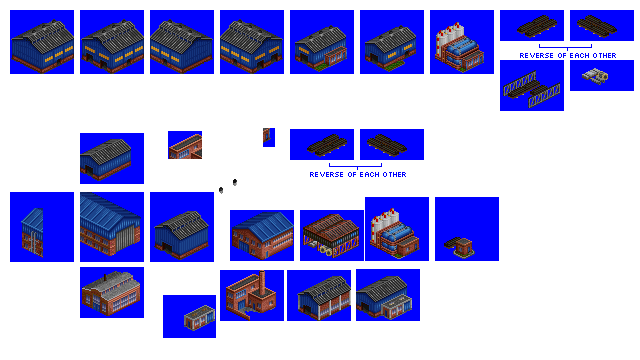
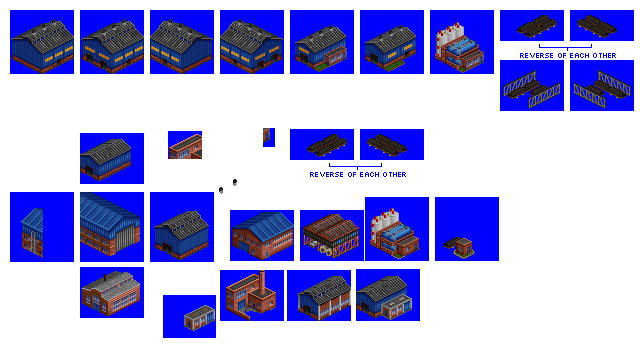
Change: improved Wire and Section Mill layouts

Changed region(s): [[0.875, 0.1833, 1.0, 0.3056]]

diff --git a/src/industries/wire_and_section_mill.py b/src/industries/wire_and_section_mill.py
@@ -73,6 +73,9 @@ spriteset_9 = industry.add_spriteset(
 spriteset_10 = industry.add_spriteset(
     sprites=[(500, 60, 64, 51, -31, -21)],
 )
+spriteset_11 = industry.add_spriteset(
+    sprites=[(570, 60, 64, 51, -31, -21)],
+)
 sprite_smoke = industry.add_smoke_sprite(
     smoke_type="white_smoke_small",
     xoffset=-5,
@@ -113,7 +116,7 @@ industry.add_spritelayout(
     ground_sprite=spriteset_ground,
     ground_overlay=spriteset_ground_overlay,
     building_sprites=[spriteset_5],
-    fences=[],
+    fences=["nw", "ne", "sw", "se"],
 )
 industry.add_spritelayout(
     id="wire_and_section_mill_spritelayout_small_shed_2",
@@ -135,20 +138,27 @@ industry.add_spritelayout(
     ground_sprite=spriteset_ground,
     ground_overlay=spriteset_ground_overlay,
     building_sprites=[spriteset_8],
-    fences=["nw", "ne", "se"],
+    fences=["nw", "ne", "sw", "se"],
 )
 industry.add_spritelayout(
     id="wire_and_section_mill_spritelayout_wire_2",
     ground_sprite=spriteset_ground,
     ground_overlay=spriteset_ground_overlay,
     building_sprites=[spriteset_9],
-    fences=["nw", "ne", "se", "sw"],
+    fences=["nw", "ne", "sw", "se"],
 )
 industry.add_spritelayout(
-    id="wire_and_section_mill_spritelayout_gantry",
+    id="wire_and_section_mill_spritelayout_gantry_1",
     ground_sprite=spriteset_ground,
     ground_overlay=spriteset_ground_overlay,
     building_sprites=[spriteset_10],
+    fences=["nw", "ne", "se", "sw"],
+)
+industry.add_spritelayout(
+    id="wire_and_section_mill_spritelayout_gantry_2",
+    ground_sprite=spriteset_ground,
+    ground_overlay=spriteset_ground_overlay,
+    building_sprites=[spriteset_11],
     fences=["nw", "ne", "se", "sw"],
 )
 
@@ -157,10 +167,12 @@ industry.add_spritelayout(
 industry.add_industry_outpost_layout(
     id="wire_and_section_mill_industry_outpost_layout_se_nw",
     layout=[
-        (0, 0, "wire_and_section_mill_tile_1", "wire_and_section_mill_spritelayout_shed_se_nw_1"),
+        (0, 0, "wire_and_section_mill_tile_1", "wire_and_section_mill_spritelayout_shed_se_nw_2"),
         (0, 1, "wire_and_section_mill_tile_1", "wire_and_section_mill_spritelayout_shed_se_nw_2"),
-        (1, 0, "wire_and_section_mill_tile_1", "wire_and_section_mill_spritelayout_small_shed_2"), # shed 2 used as it has smoke
-        (1, 1, "wire_and_section_mill_tile_1", "wire_and_section_mill_spritelayout_tanks"),
+        (0, 2, "wire_and_section_mill_tile_1", "wire_and_section_mill_spritelayout_tanks"),
+        (1, 0, "wire_and_section_mill_tile_1", "wire_and_section_mill_spritelayout_shed_se_nw_2"),
+        (1, 1, "wire_and_section_mill_tile_1", "wire_and_section_mill_spritelayout_gantry_2"),
+        (1, 2, "wire_and_section_mill_tile_1", "wire_and_section_mill_spritelayout_small_shed_2"), # shed 2 used as it has smoke
     ],
 )
 industry.add_industry_outpost_layout(
@@ -170,6 +182,8 @@ industry.add_industry_outpost_layout(
         (0, 1, "wire_and_section_mill_tile_1", "wire_and_section_mill_spritelayout_tanks"),
         (1, 0, "wire_and_section_mill_tile_1", "wire_and_section_mill_spritelayout_shed_sw_ne_2"),
         (1, 1, "wire_and_section_mill_tile_1", "wire_and_section_mill_spritelayout_small_shed_2"), # shed 2 used as it has smoke
+        (2, 0, "wire_and_section_mill_tile_1", "wire_and_section_mill_spritelayout_small_shed_1"),
+        (2, 1, "wire_and_section_mill_tile_1", "wire_and_section_mill_spritelayout_gantry_1"),
     ],
 )
 # core layouts are roughly 6x4 or 5x5
@@ -198,12 +212,6 @@ industry.add_industry_layout(
             "wire_and_section_mill_spritelayout_shed_sw_ne_2",
         ),
         (
-            0,
-            3,
-            "wire_and_section_mill_tile_1",
-            "wire_and_section_mill_spritelayout_shed_sw_ne_2",
-        ),
-        (
             1,
             0,
             "wire_and_section_mill_tile_1",
@@ -222,12 +230,6 @@ industry.add_industry_layout(
             "wire_and_section_mill_spritelayout_shed_sw_ne_2",
         ),
         (
-            1,
-            3,
-            "wire_and_section_mill_tile_1",
-            "wire_and_section_mill_spritelayout_shed_sw_ne_2",
-        ),
-        (
             2,
             0,
             "wire_and_section_mill_tile_1",
@@ -239,13 +241,7 @@ industry.add_industry_layout(
             "wire_and_section_mill_tile_1",
             "wire_and_section_mill_spritelayout_shed_sw_ne_1",
         ),
-        (2, 2, "wire_and_section_mill_tile_1", "wire_and_section_mill_spritelayout_wire_2"),
-        (
-            2,
-            3,
-            "wire_and_section_mill_tile_1",
-            "wire_and_section_mill_spritelayout_gantry",
-        ),
+        (2, 2, "wire_and_section_mill_tile_1", "wire_and_section_mill_spritelayout_wire_1"),
         (
             3,
             0,
@@ -260,12 +256,6 @@ industry.add_industry_layout(
         ),
         (3, 2, "wire_and_section_mill_tile_1", "wire_and_section_mill_spritelayout_wire_1"),
         (
-            3,
-            3,
-            "wire_and_section_mill_tile_1",
-            "wire_and_section_mill_spritelayout_gantry",
-        ),
-        (
             4,
             0,
             "wire_and_section_mill_tile_1",
@@ -277,8 +267,7 @@ industry.add_industry_layout(
             "wire_and_section_mill_tile_1",
             "wire_and_section_mill_spritelayout_small_shed_2",
         ),
-        (4, 2, "wire_and_section_mill_tile_1", "wire_and_section_mill_spritelayout_wire_1"),
-        (4, 3, "wire_and_section_mill_tile_1", "wire_and_section_mill_spritelayout_wire_2"),
+        (4, 2, "wire_and_section_mill_tile_1", "wire_and_section_mill_spritelayout_gantry_1"),
         (
             5,
             0,
@@ -291,8 +280,7 @@ industry.add_industry_layout(
             "wire_and_section_mill_tile_1",
             "wire_and_section_mill_spritelayout_small_shed_1",
         ),
-        (5, 2, "wire_and_section_mill_tile_1", "wire_and_section_mill_spritelayout_wire_1"),
-        (5, 3, "wire_and_section_mill_tile_1", "wire_and_section_mill_spritelayout_wire_2"),
+        (5, 2, "wire_and_section_mill_tile_1", "wire_and_section_mill_spritelayout_gantry_1"),
     ],
 )
 industry.add_industry_layout(
@@ -383,35 +371,9 @@ industry.add_industry_layout(
             "wire_and_section_mill_tile_1",
             "wire_and_section_mill_spritelayout_shed_se_nw_2",
         ),
-        (2, 2, "wire_and_section_mill_tile_1", "wire_and_section_mill_spritelayout_wire_1"),
+        (2, 2, "wire_and_section_mill_tile_1", "wire_and_section_mill_spritelayout_wire_2"),
         (2, 3, "wire_and_section_mill_tile_1", "wire_and_section_mill_spritelayout_wire_2"),
-        (2, 4, "wire_and_section_mill_tile_1", "wire_and_section_mill_spritelayout_wire_2"),
-        (2, 5, "wire_and_section_mill_tile_1", "wire_and_section_mill_spritelayout_wire_2"),
-        (
-            3,
-            0,
-            "wire_and_section_mill_tile_1",
-            "wire_and_section_mill_spritelayout_shed_se_nw_2",
-        ),
-        (
-            3,
-            1,
-            "wire_and_section_mill_tile_1",
-            "wire_and_section_mill_spritelayout_shed_se_nw_2",
-        ),
-        (
-            3,
-            2,
-            "wire_and_section_mill_tile_1",
-            "wire_and_section_mill_spritelayout_gantry",
-        ),
-        (
-            3,
-            3,
-            "wire_and_section_mill_tile_1",
-            "wire_and_section_mill_spritelayout_gantry",
-        ),
-        (3, 4, "wire_and_section_mill_tile_1", "wire_and_section_mill_spritelayout_wire_1"),
-        (3, 5, "wire_and_section_mill_tile_1", "wire_and_section_mill_spritelayout_wire_1"),
+        (2, 4, "wire_and_section_mill_tile_1", "wire_and_section_mill_spritelayout_gantry_2"),
+        (2, 5, "wire_and_section_mill_tile_1", "wire_and_section_mill_spritelayout_gantry_2"),
     ],
 )
